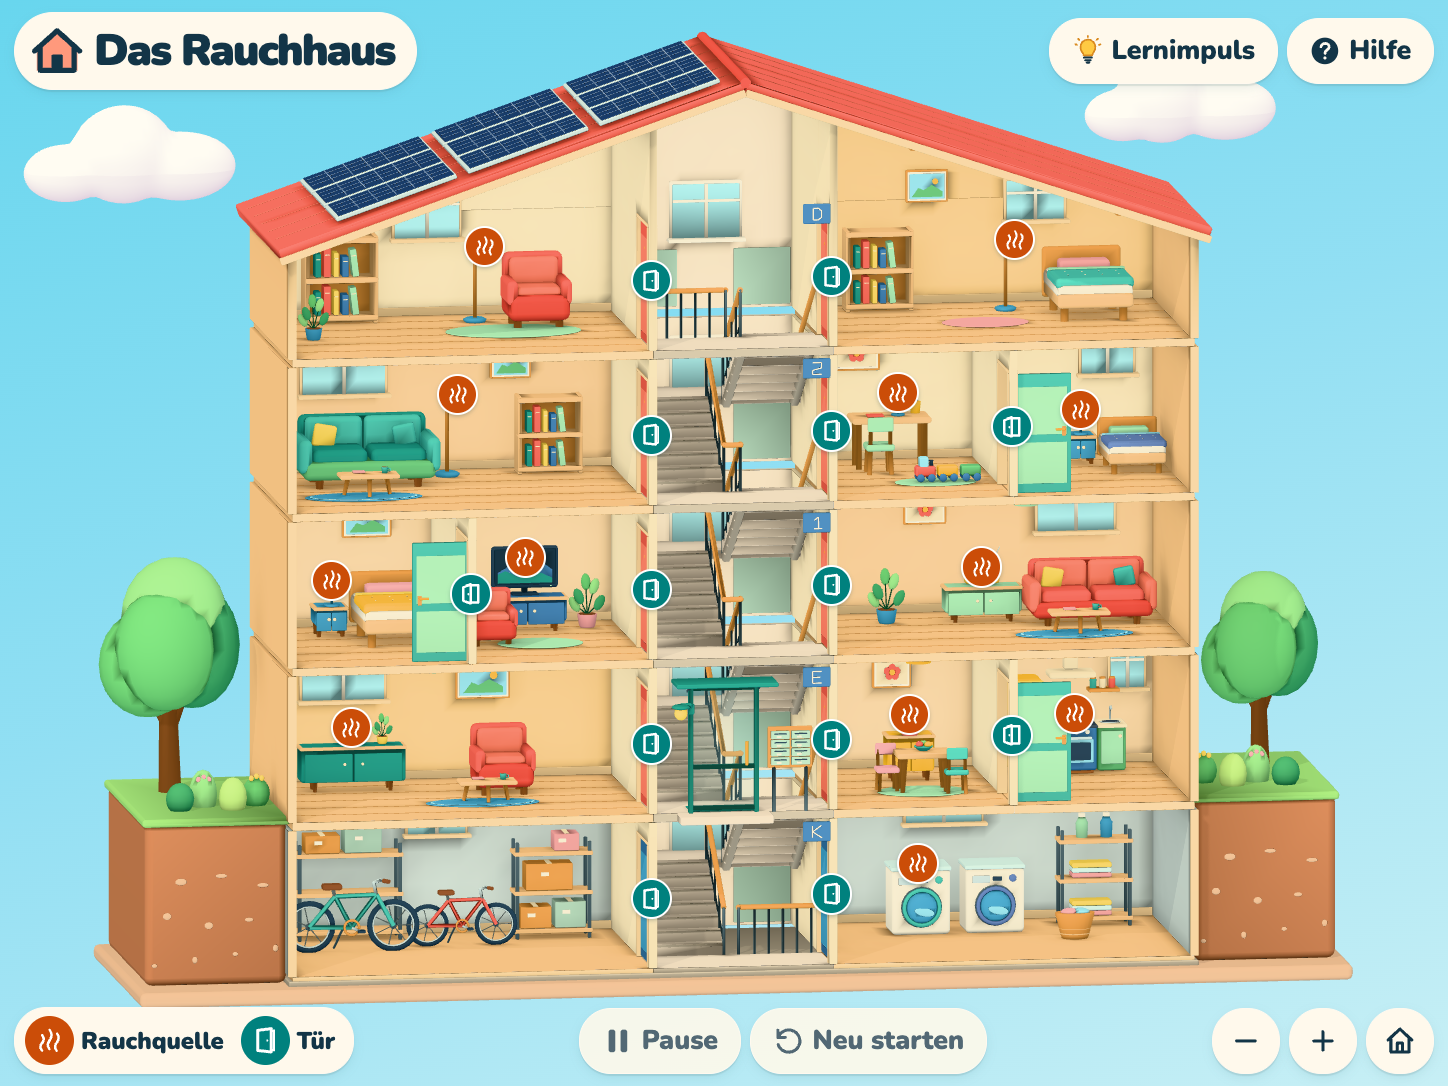
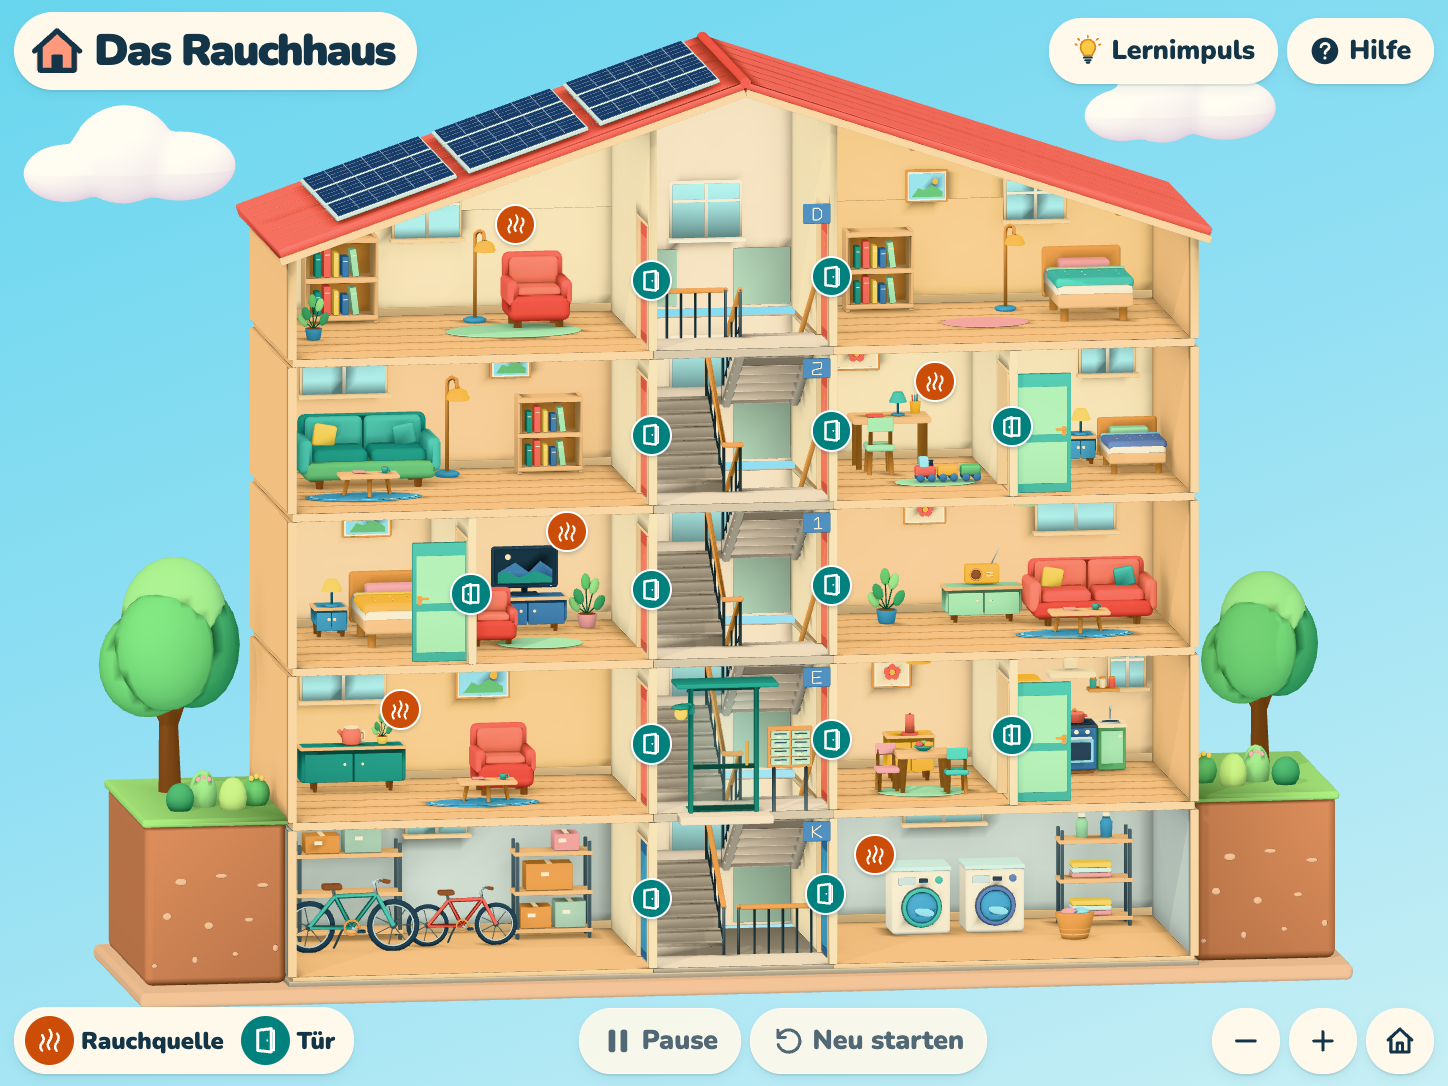
Show one wall-mounted smoke marker per floor

diff --git a/src/scene/index.ts b/src/scene/index.ts
@@ -25,7 +25,7 @@ import {
   type DoorId,
   ROOMS,
   type SimulationSnapshot,
-  SOURCES,
+  CLASSROOM_SOURCES,
   type SourceId,
 } from '../simulation'
 import { HouseCamera, pickedFloor } from './camera'
@@ -114,7 +114,7 @@ function readAnchors(model: Group) {
   const roomFloors = new Map(ROOMS.map((room) => [room.id, room.floor]))
   const items = [
     ...DOORS.map((door) => ({ id: door.id, room: door.rooms[0] })),
-    ...SOURCES,
+    ...CLASSROOM_SOURCES,
     ...DETECTORS,
   ]
   for (const { id, room } of items) {
@@ -199,9 +199,12 @@ export async function createHouseScene(
     })
     const anchors = readAnchors(model)
     const positions = new Map<SourceId, Vector3>()
-    for (const { id } of SOURCES) {
+    for (const { id, marker } of CLASSROOM_SOURCES) {
       const point = anchors.get(id)
-      if (point) positions.set(id, point.position)
+      if (point) {
+        positions.set(id, point.position.clone())
+        point.position.fromArray(marker)
+      }
     }
     const hinges = DOORS.map((door) => {
       const object = model.getObjectByName(`hinge_${door.id}`)

diff --git a/src/main.ts b/src/main.ts
@@ -1,6 +1,6 @@
 import './style.css'
 import { createHouseScene, type HouseScene } from './scene'
-import { DETECTORS, DOORS, FLOORS, SOURCES } from './simulation'
+import { DETECTORS, DOORS, FLOORS, CLASSROOM_SOURCES } from './simulation'
 import { element, mountLayout, setButton } from './ui/layout'
 import { Markers } from './ui/markers'
 import { showPanel, type PanelKind } from './ui/panels'
@@ -72,7 +72,7 @@ function openPanel(kind: PanelKind) {
 function activate(id: string) {
   if (!ready || modal || session.stage) return
   const door = DOORS.find((item) => item.id === id)
-  const source = SOURCES.find((item) => item.id === id)
+  const source = CLASSROOM_SOURCES.find((item) => item.id === id)
   if (door) {
     session.toggleDoor(door.id)
     announce(door.label + (session.snapshot.doors[door.id] ? ' offen.' : ' geschlossen.'))

diff --git a/src/simulation/house.ts b/src/simulation/house.ts
@@ -139,6 +139,13 @@ export const SOURCES: readonly Source[] = layout.sources.map((source) => ({
   position: source.position as [number, number, number],
 }))
 
+/** Wall positions for the five selectable experiments, separate from their emission points. */
+export const CLASSROOM_SOURCES = Object.entries(layout.sourceMarkers).map(([id, marker]) => {
+  const source = SOURCES.find((item) => item.id === id)
+  if (!source) throw new Error(`Missing smoke source: ${id}`)
+  return { ...source, marker }
+})
+
 export const DETECTORS: readonly Detector[] = layout.detectors.map((detector) => ({
   ...detector,
   id: detector.id as DetectorId,

diff --git a/src/ui/markers.ts b/src/ui/markers.ts
@@ -1,4 +1,4 @@
-import { DETECTORS, DOORS, ROOMS, SOURCES, type SimulationSnapshot } from '../simulation'
+import { DETECTORS, DOORS, ROOMS, CLASSROOM_SOURCES, type SimulationSnapshot } from '../simulation'
 import { icon } from './icons'
 
 interface Position {
@@ -31,7 +31,7 @@ export class Markers {
     activate: (id: string) => void,
   ) {
     const groups = [
-      [SOURCES, 'source'],
+      [CLASSROOM_SOURCES, 'source'],
       [DOORS, 'door'],
       [DETECTORS, 'detector'],
     ] as const

diff --git a/README.md b/README.md
@@ -2,7 +2,7 @@
 
 [Open the published version from main](https://daslukas.github.io/rauchhaus/)
 
-A one-page, touch-first 3D teaching tool for primary-school children aged 6–10. Choose an orange smoke source or tap a turquoise marker to open a door. Observe the plume, the ceiling layer and the shared stairwell. The optional guided activity repeats the same television scenario with the apartment door open and closed. Classroom use needs a WebGL 2 browser and a connection to load the site. The application runs entirely on the device after loading.
+A one-page, touch-first 3D teaching tool for primary-school children aged 6–10. Each level has one selectable smoke source. Its orange marker sits beside the object on the wall. Choose an orange smoke source or tap a turquoise marker to open a door. Observe the plume, the ceiling layer and the shared stairwell. The optional guided activity repeats the same television scenario with the apartment door open and closed. Classroom use needs a WebGL 2 browser and a connection to load the site. The application runs entirely on the device after loading.
 
 ![Central stairwell with apartments on both sides and a cutaway basement](docs/rauchhaus.png)
 
